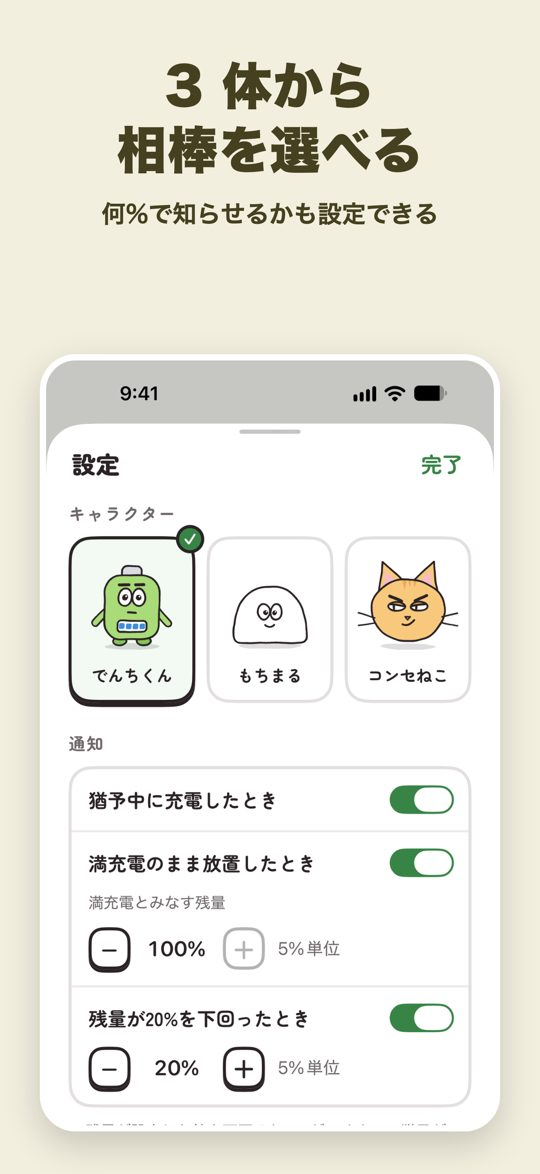
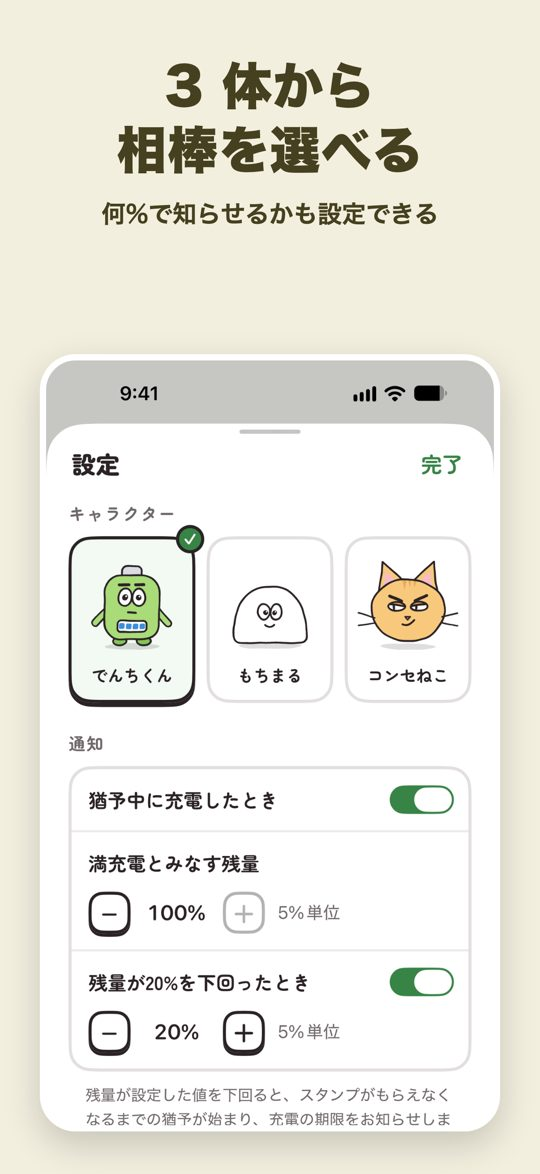
でんぐせ：紹介・サポート・プライバシーポリシーをバージョン 1.5 の内容に更新

diff --git a/docs/denguse/support.html b/docs/denguse/support.html
@@ -16,18 +16,18 @@
 <p class="lead">でんぐせ（旧名 ChargeFace）は、電池の残量と充電の状態でキャラクターの表情が変わり、充電のくせで性格と見た目が変わるアプリです。</p>
 
 <h2>「今週のスタンプ」とは何ですか</h2>
-<p>バージョン 1.4 から、ウィジェット・通知・アプリの画面に、今週の 7 マス（月曜から日曜）が出るようになりました。電池を守れた日に、キャラクターのスタンプがつきます。決まりは次のとおりで、アプリの画面の上部の 7 マスを押すと開く「今週のスタンプ」の画面でも確かめられます。</p>
+<p>バージョン 1.4 から、ウィジェット・通知・アプリの画面に、今週の 7 マス（月曜から日曜）が出るようになりました。電池を守れた日に、キャラクターのスタンプがもらえます。決まりは次のとおりで、アプリの画面の上部の 7 マスを押すと開く「今週のスタンプ」の画面でも確かめられます。</p>
+<p>バージョン 1.5 で、「×」「△」の印をやめ、「スタンプがもらえる・もらえない」という言い方に改めました。もらえなかった日のマスは、灰色になります。満充電のままつないでいる日の決まり（△）は、やめました。</p>
 <ul>
-<li>×：残量が、アプリの設定の「残量が20%を下回ったとき」（数字は設定した値）の残量を下回ってから 180 分、充電しないと、その日のマスが × になります。夜の 23 時から朝の 7 時までは数えません。通知の残量を上げたときは、上げた時刻から 180 分を数えます。</li>
-<li>△：昼間（7 時から 23 時まで）に、100% のまま 6 時間つないでいると、その日のマスが △ になります。充電の上限（80% など）を設定している間は、つきません。</li>
-<li>取り消し：× と △ は、ついた日の翌日の 24 時まで、週に 1 回だけ、「今週のスタンプ」の画面のボタンで取り消せます。取り消した日は、スタンプになります。</li>
+<li>スタンプがもらえない日：残量が、アプリの設定の「残量が20%を下回ったとき」（数字は設定した値）の残量を下回ってから 180 分、充電しないと、その日はスタンプがもらえません。夜の 23 時から朝の 7 時までの時間は、180 分に含めません。通知の残量を上げたときは、上げた時刻から 180 分を数えます。</li>
+<li>あとからもらう：スタンプがもらえなかった日も、翌日の 24 時までなら、週に 1 回だけ、「今週のスタンプ」の画面のボタンで、あとからスタンプをもらえます。</li>
 <li>王冠：月曜から日曜まで 7 マスそろうと、次の月曜の朝 7 時以降に、キャラクターが 8 時間、王冠をかぶります。月曜のうちにアプリを開くと、確実にかぶります。</li>
 </ul>
-<p>月曜には、7 マスが空に戻ります。使い始めた日より前のマスは、小さな点になり、数えません（使い始めた週は、7 マスそろいません）。ウィジェットと通知に出る「×まで90分（22:00）」は、× がつくまでの残り時間と、期限の時刻です。</p>
+<p>月曜には、7 マスが空に戻ります。使い始めた日より前のマスは、小さな点になり、数えません（使い始めた週は、7 マスそろいません）。ウィジェットに出る「期限まで90分」と、通知の題の「22:00までに充電（残り90分）」は、充電の期限と、それまでの残り時間です。</p>
 
-<h2>充電したのに「？」や × が出るとき</h2>
-<p>iOS では、アプリが動いていない間に充電を知る仕組みがありません。そのため、期限を過ぎても、アプリかウィジェットが次に動くまでは、その日のマスが「？」（確認中）になります。次に動いたときに、充電中か、残量が 10% 以上増えていれば、スタンプのままです。× がつくのは、期限を過ぎたあとも充電されていないと確かめられたときだけです。アプリを開くと、すぐに確かめます。</p>
-<p>充電の跡が記録に残らなかったとき（短い時間だけ充電したときなど）は、充電したのに × がつくことがあります。そのときは、「今週のスタンプ」の画面で取り消せます（週に 1 回）。</p>
+<h2>充電したのに「？」が出るとき、スタンプがもらえなかったとき</h2>
+<p>iOS では、アプリが動いていない間に充電を知る仕組みがありません。そのため、期限を過ぎても、アプリかウィジェットが次に動くまでは、その日のマスが「？」（確認中）になります。次に動いたときに、充電中か、残量が 10% 以上増えていれば、スタンプのままです。スタンプがもらえなくなるのは、期限を過ぎたあとも充電されていないと確かめられたときだけです。アプリを開くと、すぐに確かめます。</p>
+<p>充電の跡が記録に残らなかったとき（短い時間だけ充電したときなど）は、充電したのに、スタンプがもらえないことがあります。そのときは、「今週のスタンプ」の画面で、あとからもらえます（週に 1 回）。</p>
 
 <h2>キャラクターの見た目が変わったのはなぜですか</h2>
 <p>バージョン 1.3 から、充電のくせと充電の回数で、キャラクターの見た目が変わるようになりました。変わったことを知らせる表示はありません。見た目の変化は、アプリの画面・ウィジェット・通知の絵に出ます。</p>
@@ -48,7 +48,7 @@
 <p>バージョン 1.2 で、充電のくせでキャラクターの性格が変わる仕組みを加えたためです。名前の「でんぐせ」は、電池とくせを合わせた言葉です。中身は同じアプリで、設定やキャラクターはそのまま引き継がれます。</p>
 
 <h2>ウィジェットに残量の数字が出なくなったのはなぜですか</h2>
-<p>iOS がアプリに伝える残量は 5% 単位です。また、ウィジェットは遅れて更新されます。そのため、ウィジェットの数字が、ステータスバーの値とずれて見えることがありました。そこで、バージョン 1.2 から、ウィジェットには残量の数字を出さず、キャラクターの表情や、せりふ・ひとこと（どれが出るかは、ウィジェットの大きさによって異なります）で電池のようすを伝えるようにしました。残量の数字は、アプリの画面で見られます（5% 単位のため、「約85%」のように表示します）。残量低下の通知にも出ることがあります。最も正確な値は、ステータスバーで確かめられます。バージョン 1.4 のウィジェットに出る数字は、× がつくまでの残り時間（分）と期限の時刻、今週のスタンプの数です。電池の残量ではありません。</p>
+<p>iOS がアプリに伝える残量は 5% 単位です。また、ウィジェットは遅れて更新されます。そのため、ウィジェットの数字が、ステータスバーの値とずれて見えることがありました。そこで、バージョン 1.2 から、ウィジェットには残量の数字を出さず、キャラクターの表情や、せりふ・ひとこと（どれが出るかは、ウィジェットの大きさによって異なります）で電池のようすを伝えるようにしました。残量の数字は、アプリの画面で見られます（5% 単位のため、「約85%」のように表示します）。残量低下の通知にも出ることがあります。最も正確な値は、ステータスバーで確かめられます。バージョン 1.4 からのウィジェットに出る数字は、充電の期限までの残り時間（分）と期限の時刻、今週のスタンプの数です。電池の残量ではありません。</p>
 
 <h2>ウィジェットの表情がすぐに変わらないとき</h2>
 <p>iOS では、アプリが動いていない間に電池の変化を受け取る仕組みがありません。ウィジェットは、iOS がウィジェットを更新するときに電池の残量を読み直します。更新の回数は iOS が制限しているため、表情が追いつくまで通常 1 時間ほどかかり、それより遅れることもあります。アプリを開くと、すぐに最新の状態になります。バージョン 1.4 の残り時間の数字は、iOS 18 以降では 1 分ごとに減ります。iOS 17 では、ウィジェットが更新されたときの値のままです。</p>
@@ -63,7 +63,7 @@
 <h2>通知が遅れて届くのはなぜですか</h2>
 <p>iOS では、アプリが動いていない間に電池の変化を受け取る仕組みがありません。そのため、アプリは、iOS がアプリにときどき与える実行の機会にだけ、通知を出すかどうかを判定します。この機会には、バックグラウンド更新と、iPhone が電源につながっている間だけ動く処理があります。判定の対象は、残量低下の通知と、念押しの通知（残量低下のあとに届く通知。バージョン 1.4 では最大 2 回、バージョン 1.3 までは最大 3 回）、今週のスタンプの結果の通知（バージョン 1.3 までは、充電開始・満充電の通知）です。機会がいつ来るかは iOS が決めるため、通知は数十分から数時間遅れて届くことがあります。</p>
 <p>バージョン 1.4 の念押しの通知は、残量低下の通知の 30 分後と 90 分後に届きます。残量低下の通知のあとにアプリを開いていないときは、90 分後の代わりに、期限の 30 分前に届きます。</p>
-<p>バージョン 1.4 では、夜の 23 時から朝の 7 時までは、× がつくまでの時間を数えず、念押しの通知と結果の通知を届けません（残量低下の最初の通知は、夜でも届きます）。結果の通知は、朝になってから届きます。バージョン 1.3 までは、夜（23 時〜翌朝 5 時）に遅れて届く充電開始・満充電の通知と、夜に届く念押しの通知は、音もバナーも出さず、通知センターにだけ入ります。</p>
+<p>バージョン 1.4 からは、夜の 23 時から朝の 7 時までは、充電の期限までの時間を数えず、念押しの通知と結果の通知を届けません（残量低下の最初の通知は、夜でも届きます）。結果の通知は、朝になってから届きます。バージョン 1.3 までは、夜（23 時〜翌朝 5 時）に遅れて届く充電開始・満充電の通知と、夜に届く念押しの通知は、音もバナーも出さず、通知センターにだけ入ります。</p>
 <p>アプリが充電の開始を知るのも、次に動いたときです。そのため、充電を始めたあとに、念押しの通知が届くことがあります。残量低下の通知を長押しして出る「充電しました」（バージョン 1.2 までは「充電した」）を押すと、残りの念押しの通知を止められます。</p>
 
 <h2 id="low">残量低下の通知が届かないとき</h2>
@@ -75,12 +75,12 @@
 </ul>
 
 <h2>充電開始・満充電の通知が届かなくなったのはなぜですか</h2>
-<p>バージョン 1.4 で、充電を始めるたびの通知と、満充電になるたびの通知をやめ、次の 2 つに置き換えました。アプリの設定の項目の名前も変わりました。</p>
+<p>バージョン 1.4 で、充電を始めるたびの通知と、満充電になるたびの通知をやめました。アプリの設定の項目の名前も変わりました。</p>
 <ul>
-<li>「猶予中に充電したとき」（バージョン 1.3 までは「充電を開始したとき」）：× がつくまでの猶予の間に充電したときに、間に合ったことを知らせます。</li>
-<li>「満充電のまま放置したとき」（バージョン 1.3 までは「満充電になったとき」）：100% のまま 5 時間つないでいるときに △ の予告を、6 時間たって △ がついたときにそのことを知らせます。</li>
+<li>「猶予中に充電したとき」（バージョン 1.3 までは「充電を開始したとき」）：充電の期限までの猶予の間に充電したときに、間に合ったことを知らせます。</li>
+<li>満充電の通知：バージョン 1.4 では「満充電のまま放置したとき」（100% のまま長くつないでいるときの通知）がありましたが、バージョン 1.5 でやめました（最近の iPhone は、満充電のままつないでいても、iOS が電池への負担を抑えるためです）。「満充電とみなす残量」の設定は、満充電の表情に使うため、残っています。</li>
 </ul>
-<p>この 2 つの通知も、iOS がアプリにときどき与える実行の機会に判定するため、数十分から数時間遅れて届くことがあります。「Appのバックグラウンド更新」がオフの間と、低電力モードの間は、その機会がほぼ無くなるため、ほとんど届きません（直し方は、上の<a href="#low">「残量低下の通知が届かないとき」</a>と同じです）。</p>
+<p>この通知も、iOS がアプリにときどき与える実行の機会に判定するため、数十分から数時間遅れて届くことがあります。「Appのバックグラウンド更新」がオフの間と、低電力モードの間は、その機会がほぼ無くなるため、ほとんど届きません（直し方は、上の<a href="#low">「残量低下の通知が届かないとき」</a>と同じです）。</p>
 <p>バージョン 1.3 までは、アプリの設定で「充電を開始したとき」（バージョン 1.2 までは「充電を始めたとき」）と「満充電になったとき」がオンのときに、充電開始・満充電の通知が届きます。実行の機会が来る前に充電器を外すと、届きません。</p>
 <p>充電の上限（80% など）を設定しているときは、アプリの設定の「通知」にある「満充電とみなす残量」を、充電の上限と同じ値に合わせると、上限に達したときに満充電の表情になります（バージョン 1.3 では、満充電の通知も届きます）。</p>
 

diff --git a/docs/denguse/index.html b/docs/denguse/index.html
@@ -4,7 +4,7 @@
 <meta charset="utf-8">
 <meta name="viewport" content="width=device-width, initial-scale=1">
 <title>でんぐせ - 性格が変わるバッテリーウィジェット</title>
-<meta name="description" content="でんぐせ（旧名 ChargeFace）は、iPhone の電池の残量と充電の状態でキャラクターの表情が変わり、充電のくせで性格と見た目も変わるアプリです。ホーム画面・ロック画面・スタンバイのウィジェットと、残量低下のお知らせ（iOS の仕組み上、遅れることがあります）に、今週のスタンプと × がつくまでの残り時間を出します。無料です。">
+<meta name="description" content="でんぐせ（旧名 ChargeFace）は、iPhone の電池の残量と充電の状態でキャラクターの表情が変わり、充電のくせで性格と見た目も変わるアプリです。ホーム画面・ロック画面・スタンバイのウィジェットと、残量低下のお知らせ（iOS の仕組み上、遅れることがあります）に、今週のスタンプと、充電の期限までの残り時間を出します。無料です。">
 <link rel="canonical" href="https://hitorino-hito.github.io/denguse/">
 <meta name="apple-itunes-app" content="app-id=6824164964">
 <meta property="og:type" content="website">
@@ -112,7 +112,7 @@
 <div class="wrap">
 <section class="hero">
 <h1>性格が変わる、バッテリーウィジェット</h1>
-<p class="lead">でんぐせ（電池＋くせ。旧名 ChargeFace）は、iPhone の電池の残量と充電の状態に合わせて、キャラクターの表情が変わるアプリです。残量が減るとしょんぼり、充電するとごきげん。充電のしかたのくせで、キャラクターの性格と見た目も変わります。ウィジェットをホーム画面やロック画面に置けば、充電のし忘れに気づけます。ウィジェットは、残量の数字の代わりに、キャラクターの表情と、今週のスタンプ、× がつくまでの残り時間を出します。</p>
+<p class="lead">でんぐせ（電池＋くせ。旧名 ChargeFace）は、iPhone の電池の残量と充電の状態に合わせて、キャラクターの表情が変わるアプリです。残量が減るとしょんぼり、充電するとごきげん。充電のしかたのくせで、キャラクターの性格と見た目も変わります。ウィジェットをホーム画面やロック画面に置けば、充電のし忘れに気づけます。ウィジェットは、残量の数字の代わりに、キャラクターの表情と、今週のスタンプ、充電の期限までの残り時間を出します。</p>
 <a class="store-button" href="https://apps.apple.com/jp/app/id6824164964">App Store で無料ダウンロード</a>
 <p class="note">対応：iPhone（iOS 17.0 以降）／日本語のみ</p>
 </section>
@@ -124,7 +124,7 @@
 <li><img src="img/04-low.jpg" width="540" height="1174" alt="残量が減るとしょんぼり。性格が「ギリギリ派」のコンセねこが、はちまきを締め、残量が少ないときにひげを落としているメイン画面" loading="lazy"></li>
 <li><img src="img/05-charging.jpg" width="540" height="1174" alt="充電するとごきげん。性格が「こまめ派」のもちまるが、のりを巻き、充電中に喜んでいるメイン画面" loading="lazy"></li>
 <li><img src="img/06-lock.jpg" width="540" height="1174" alt="ロック画面にも置ける。時刻の上・丸型・長方形の 3 種類。スタンバイにも対応。今週のスタンプの数と、輪にした 7 マス" loading="lazy"></li>
-<li><img src="img/07-notify.jpg" width="540" height="1174" alt="× まで、あと何分。充電すれば、× を防げる。iOS の仕組み上、遅れて届く場合あり。題が「×まで180分」と期限の時刻の通知" loading="lazy"></li>
+<li><img src="img/07-notify.jpg" width="540" height="1174" alt="充電の期限をお知らせ。充電すれば、スタンプを守れる。iOS の仕組み上、遅れて届く場合あり。題が「あす10:00までに充電（残り180分）」の通知" loading="lazy"></li>
 <li><img src="img/08-choose.jpg" width="540" height="1174" alt="3 体から相棒を選べる。何%で知らせるかも設定できる。アプリの設定の画面" loading="lazy"></li>
 </ul>
 <p class="scroll-hint" aria-hidden="true">横にスワイプすると、ほかの画面も見られます</p>
@@ -151,20 +151,20 @@
 </ul>
 
 <h2>今週のスタンプ</h2>
-<p>電池を守れた日ごとに、今週の 7 マス（月曜から日曜）に、キャラクターのスタンプがつきます。</p>
+<p>電池を守れた日ごとに、今週の 7 マス（月曜から日曜）に、キャラクターのスタンプがもらえます。</p>
 <ul class="features">
-<li>残量が、設定した残量を下回ってから 180 分、充電しないと、その日のマスが × になります。夜の 23 時から朝の 7 時までは数えません。</li>
-<li>昼間に 100% のまま 6 時間つないでいると、△ になります。</li>
-<li>× と △ は、充電の記録から確かめられたときだけつきます。ついた日の翌日の 24 時まで、週に 1 回、取り消せます。</li>
+<li>残量が、設定した残量を下回ってから 180 分、充電しないと、その日はスタンプがもらえません。夜の 23 時から朝の 7 時までの時間は、180 分に含めません。</li>
+<li>スタンプがもらえなかった日も、翌日の 24 時までなら、週に 1 回だけ、あとからスタンプをもらえます。</li>
+<li>スタンプがもらえなかったことにするのは、充電の記録から確かめられたときだけです。</li>
 <li>7 マスそろうと、次の月曜に、キャラクターが 8 時間、王冠をかぶります。</li>
 <li>月曜には、7 マスが空に戻ります。</li>
 </ul>
 
 <h2>できること</h2>
 <ul class="features">
-<li>ホーム画面（小・中）、ロック画面（時刻の上・丸型・長方形）、スタンバイのウィジェットに、今週の 7 マスと、キャラクターの表情を出します。残量が減ると、× がつくまでの残り時間を数字で出し、キャラクターが少しずつ近づいてきます。充電すると、元に戻ります。背景の色は、時刻で変わります。性格の小物と体の変化は、ウィジェットの絵にも表れます。残量の数字は、iPhone のステータスバーとアプリの画面で見られます。</li>
-<li>残量の低下（知らせる残量は 5〜50% で設定）と、今週のスタンプの結果を、キャラクターの絵が付いた通知でお知らせします。題には「×まで90分（22:00）」のように、残り時間と期限の時刻を出します。残量が下回ったとき、30 分後、90 分後（アプリを開いていないときは、期限の 30 分前）にお知らせします。念押しのお知らせ（30 分後から）は、夜の 23 時から朝の 7 時までは届けません。猶予の間に充電したとき、× や △ がついたとき、満充電のまま 5 時間たったとき、7 マスそろったときにも、お知らせします。ショートカット App などの設定は要りません。お知らせは、iOS の仕組み上、数十分から数時間遅れることがあります。</li>
-<li>アプリの画面でキャラクターをつつくと、場面ごとに違うせりふで反応します。画面の上の 7 マスを押すと、今週のスタンプと決まりを確かめられ、× や △ を取り消せます。</li>
+<li>ホーム画面（小・中）、ロック画面（時刻の上・丸型・長方形）、スタンバイのウィジェットに、今週の 7 マスと、キャラクターの表情を出します。残量が減ると、充電の期限までの残り時間を数字で出し、キャラクターが少しずつ近づいてきます。充電すると、元に戻ります。背景の色は、時刻で変わります。ひとことも、時間帯や曜日で変わります。性格の小物と体の変化は、ウィジェットの絵にも表れます。残量の数字は、iPhone のステータスバーとアプリの画面で見られます。</li>
+<li>残量の低下（知らせる残量は 5〜50% で設定）と、今週のスタンプの結果を、キャラクターの絵が付いた通知でお知らせします。題には「22:00までに充電（残り90分）」のように、充電の期限と残り時間を出します。本文は、たくさんの文面の中から、毎回ちがうものが届きます。残量が下回ったとき、30 分後、90 分後（アプリを開いていないときは、期限の 30 分前）にお知らせします。念押しのお知らせ（30 分後から）は、夜の 23 時から朝の 7 時までは届けません。猶予の間に充電したとき、スタンプがもらえなかったとき、7 マスそろったときにも、お知らせします。ショートカット App などの設定は要りません。お知らせは、iOS の仕組み上、数十分から数時間遅れることがあります。</li>
+<li>アプリの画面でキャラクターをつつくと、場面ごとに違うせりふで反応します。画面の上の 7 マスを押すと、今週のスタンプと決まりを確かめられ、もらえなかったスタンプを、あとからもらえます。ウィジェットをまだ置いていないときは、置き方を案内します。</li>
 </ul>
 
 <h2>ご利用にあたって</h2>
@@ -175,7 +175,7 @@
 <li>開発を支援する、任意のアプリ内課金があります。購入しても、機能は変わりません。</li>
 <li>お知らせと同じく、ウィジェットの更新も、iOS の仕組み上、遅れることがあります（通常は 1 時間ほどで追いつきます）。アプリを開くと、すぐに最新の状態になります。</li>
 <li>低電力モードの間や、設定 App の「Appのバックグラウンド更新」がオフのときは、お知らせがほとんど届きません。当てはまるときは、アプリの設定に直し方を表示します。</li>
-<li>充電の上限（80% など）を設定しているときは、アプリの設定の「満充電とみなす残量」を同じ値に合わせると、上限に達したときに満充電の表情になります。△ は、100% のままつないでいるときだけつきます。</li>
+<li>充電の上限（80% など）を設定しているときは、アプリの設定の「満充電とみなす残量」を同じ値に合わせると、上限に達したときに満充電の表情になります。</li>
 <li>毎回の充電の開始と満充電のお知らせは、バージョン 1.4 で、猶予の間に充電したときと、満充電のまま放置したときのお知らせに替わりました。詳しくは<a href="support.html">サポート</a>をご覧ください。</li>
 </ul>
 

diff --git a/docs/denguse/privacy.html b/docs/denguse/privacy.html
@@ -26,8 +26,9 @@
 <li>評価の依頼の時期を決めるための利用の記録（キャラクターをつついた回数、前回の依頼の時期など）</li>
 <li>アプリ内課金（開発への支援）の取引の識別子</li>
 <li>端末を識別するための値（Apple が提供するベンダー識別子）</li>
+<li>利用状況の分析のための、予約した通知の記録（通知の種類と届く予定の時刻。最大 3 日分。バージョン 1.5 以降）</li>
 </ul>
-<p>充電の記録は、キャラクターの性格と見た目と、週のスタンプの印（バージョン 1.4 以降）を決めるためだけに使います。本アプリ自身は、上の情報を開発者や外部に送信せず、利用者のアカウントも作りません（広告のために Google が取得する情報は、2 項のとおりです）。バージョン 1.3 以降の本アプリは、写真ライブラリを使いません。バージョン 1.2 には、「充電のくせ診断」の結果の画像を共有する機能がありました。この画像は、利用者が共有を選んだときに限り、利用者が選んだ App に渡します。画像に入るのは、キャラクターの絵（電池の状態にかかわらず同じ絵）・性格・くせの強さ・キャラクターとの仲の段階・アプリの名前だけで、電池の残量・日時・充電の回数は入りません。写真ライブラリへの追加の許可が必要になるのは、利用者が共有シートからその画像を「写真」App に保存するときだけで、写真ライブラリの読み取りはしません。この機能は、バージョン 1.3 で削除しました。</p>
+<p>充電の記録は、キャラクターの性格と見た目と、週のスタンプの印（バージョン 1.4 以降）を決めるためだけに使います。本アプリ自身は、上の情報をそのまま開発者や外部に送信せず、利用者のアカウントも作りません（バージョン 1.5 以降の利用状況の分析で送る情報は 4 項、広告のために Google が取得する情報は 2 項のとおりです）。バージョン 1.3 以降の本アプリは、写真ライブラリを使いません。バージョン 1.2 には、「充電のくせ診断」の結果の画像を共有する機能がありました。この画像は、利用者が共有を選んだときに限り、利用者が選んだ App に渡します。画像に入るのは、キャラクターの絵（電池の状態にかかわらず同じ絵）・性格・くせの強さ・キャラクターとの仲の段階・アプリの名前だけで、電池の残量・日時・充電の回数は入りません。写真ライブラリへの追加の許可が必要になるのは、利用者が共有シートからその画像を「写真」App に保存するときだけで、写真ライブラリの読み取りはしません。この機能は、バージョン 1.3 で削除しました。</p>
 
 <h2>2. 広告について</h2>
 <p>本アプリは、利用者が広告を見ることを選んだとき（メイン画面の「広告を見る」か、設定の「広告を見て王冠を贈る」を押したとき。バージョン 1.2 までは「広告を見て王冠をあげる」）に、Google の広告配信サービス（Google Mobile Ads SDK）を通じて広告を表示します。また、広告をすぐに表示できるよう、本アプリを開いている間に広告を前もって読み込みます。そのため、広告を見ないときも、本アプリは Google と通信します。</p>
@@ -43,12 +44,22 @@
 <h2>3. アプリ内課金について</h2>
 <p>本アプリのアプリ内課金（開発への支援。バージョン 1.2 までの画面では「カンパ」）は、Apple の App Store を通じて処理されます。本アプリは購入の結果だけを受け取り、支払いに関する情報を扱いません。</p>
 
-<h2>4. 分析ツールについて</h2>
-<p>本アプリは、広告のための Google Mobile Ads SDK（2 項）のほかに、利用状況の分析やクラッシュの収集を行う外部のツールを使っていません。設定 App で「App デベロッパと共有」を有効にしている利用者については、開発者が Apple を通じて、クラッシュなどの診断情報を、個人を特定しない形で受け取ることがあります。</p>
+<h2>4. 利用状況の分析について</h2>
+<p>バージョン 1.5 以降の本アプリは、通知とアプリの改善のため、Google の Google Analytics for Firebase を使って、次の利用状況を開発者に送ります。</p>
+<ul>
+<li>通知の種類ごとの、届いた・開いた・消した・「充電しました」を押した回数と、届いてからの経過時間</li>
+<li>残量が下がってから充電されるまでの時間と、その間に届いた通知の種類</li>
+<li>設定の変更（通知のオンとオフ、知らせる残量、キャラクター、利用状況の送信）と、週のスタンプの取り消し</li>
+<li>通知の許可の状態、選んでいるキャラクター、置いているウィジェットの種類</li>
+<li>ウィジェットが表示された日数、評価の依頼を出した回数、スタンプがもらえなかった日の数（日付は送りません）</li>
+<li>Firebase が自動で取得する情報（アプリを開いた回数と時間、端末の機種と OS のバージョン、IP アドレスから推定するおおよその地域、アプリの識別子）</li>
+</ul>
+<p>電池の残量の値、充電の記録そのもの、通知の文面は送りません。送る情報は、氏名や連絡先と結び付けず、広告識別子を使わず、利用者の追跡には使いません。設定の「利用状況の送信」をオフにすると、送信を止められます。送った情報は、受け取ってから 14 か月で消えるように設定しています。Google による情報の取り扱いは、Google のプライバシーポリシー（https://policies.google.com/privacy）に従います。</p>
+<p>このほかに、利用状況の分析やクラッシュの収集を行う外部のツールは使っていません。設定 App で「App デベロッパと共有」を有効にしている利用者については、開発者が Apple を通じて、クラッシュなどの診断情報を、個人を特定しない形で受け取ることがあります。</p>
 
 <h2>5. 情報の保存と削除</h2>
 <p>本アプリが端末の中に保存する情報（1 項の情報）は、本アプリを削除すると端末から消えます。約 2 週間より古い充電の記録は使いません。古い記録は、本アプリかウィジェットが記録を書くときに消します。バージョン 1.2 では、くせ診断の「くせの記録を消す」でも消せます（このボタンは、バージョン 1.3 で、くせ診断とともに削除しました）。充電の記録は、iPhone のバックアップに含めません。推定した性格と充電の回数、週のスタンプの記録は、ほかの設定と同じくバックアップに含まれますが、別の iPhone に復元したときは消します。</p>
-<p>開発者が受け取る利用者の情報は、4 項の診断情報と、お問い合わせと請求のフォームで受け取った内容（8 項）だけです。Google が取得した情報の保存と削除は、Google のプライバシーポリシーに従います。利用者は、Google が案内する方法で、その情報の削除を依頼できます。</p>
+<p>開発者が受け取る利用者の情報は、4 項の利用状況と診断情報と、お問い合わせと請求のフォームで受け取った内容（8 項）だけです。Google が取得した情報の保存と削除は、Google のプライバシーポリシーに従います。利用者は、Google が案内する方法で、その情報の削除を依頼できます。</p>
 
 <h2>6. 同意の取り消し</h2>
 <p>広告識別子を追跡に使うことへの許可は、設定 App の「プライバシーとセキュリティ」の「トラッキング」で、いつでも取り消せます。取り消したあとも、本アプリはそのまま使えます（広告識別子は使われなくなります）。</p>
@@ -63,7 +74,7 @@
 <h2>9. 改定</h2>
 <p>本ポリシーを改定したときは、このページで公表します。</p>
 
-<p class="date">制定日：2026年10月18日<br>改定日：2026年11月17日</p>
+<p class="date">制定日：2026年10月18日<br>改定日：2026年11月20日</p>
 </div>
 </main>
 <footer class="site-footer">
